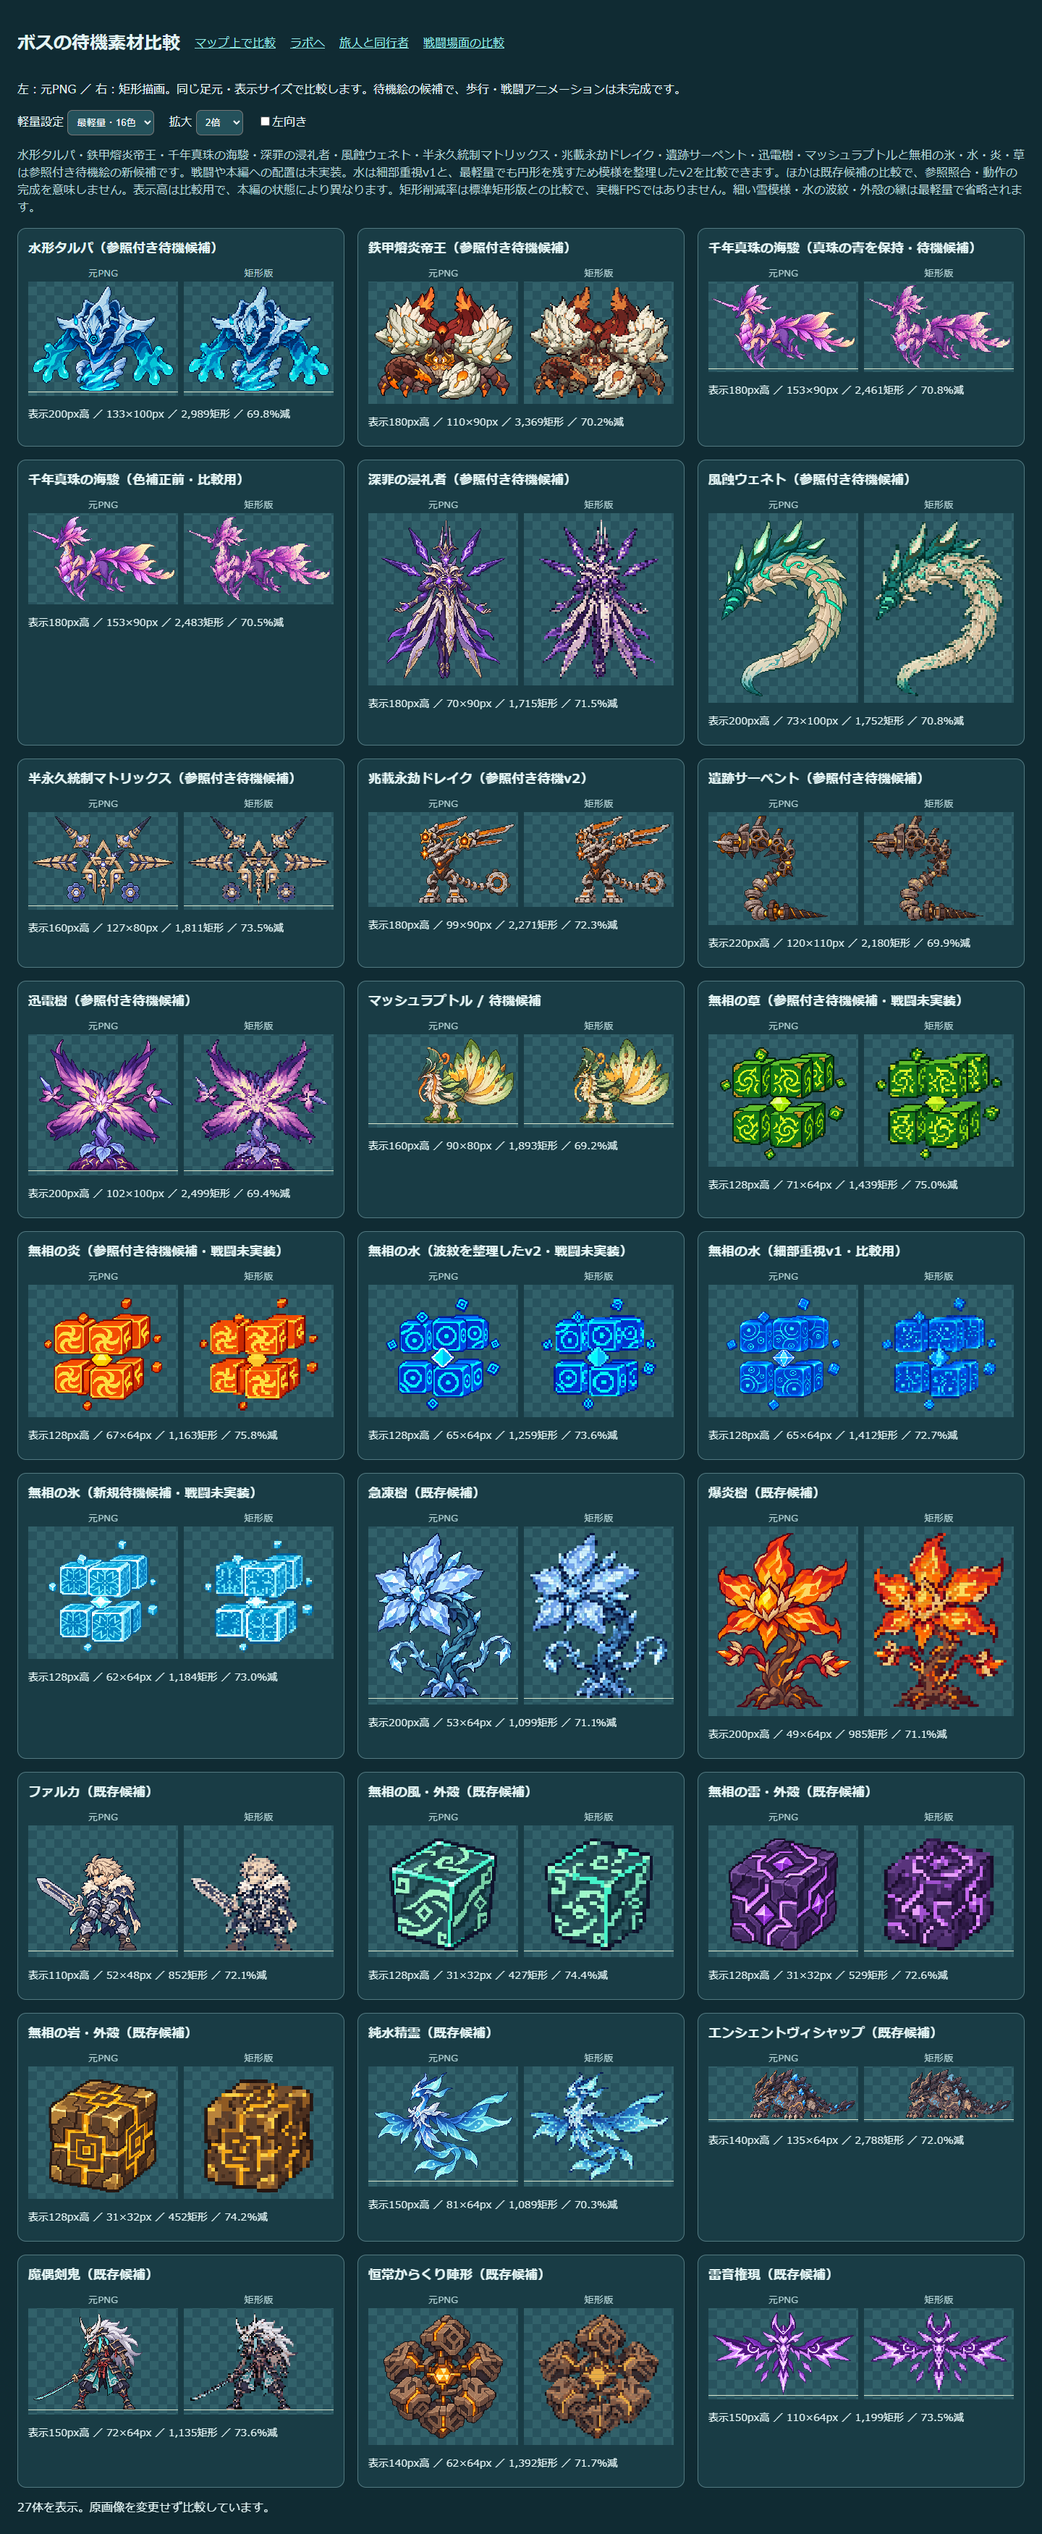
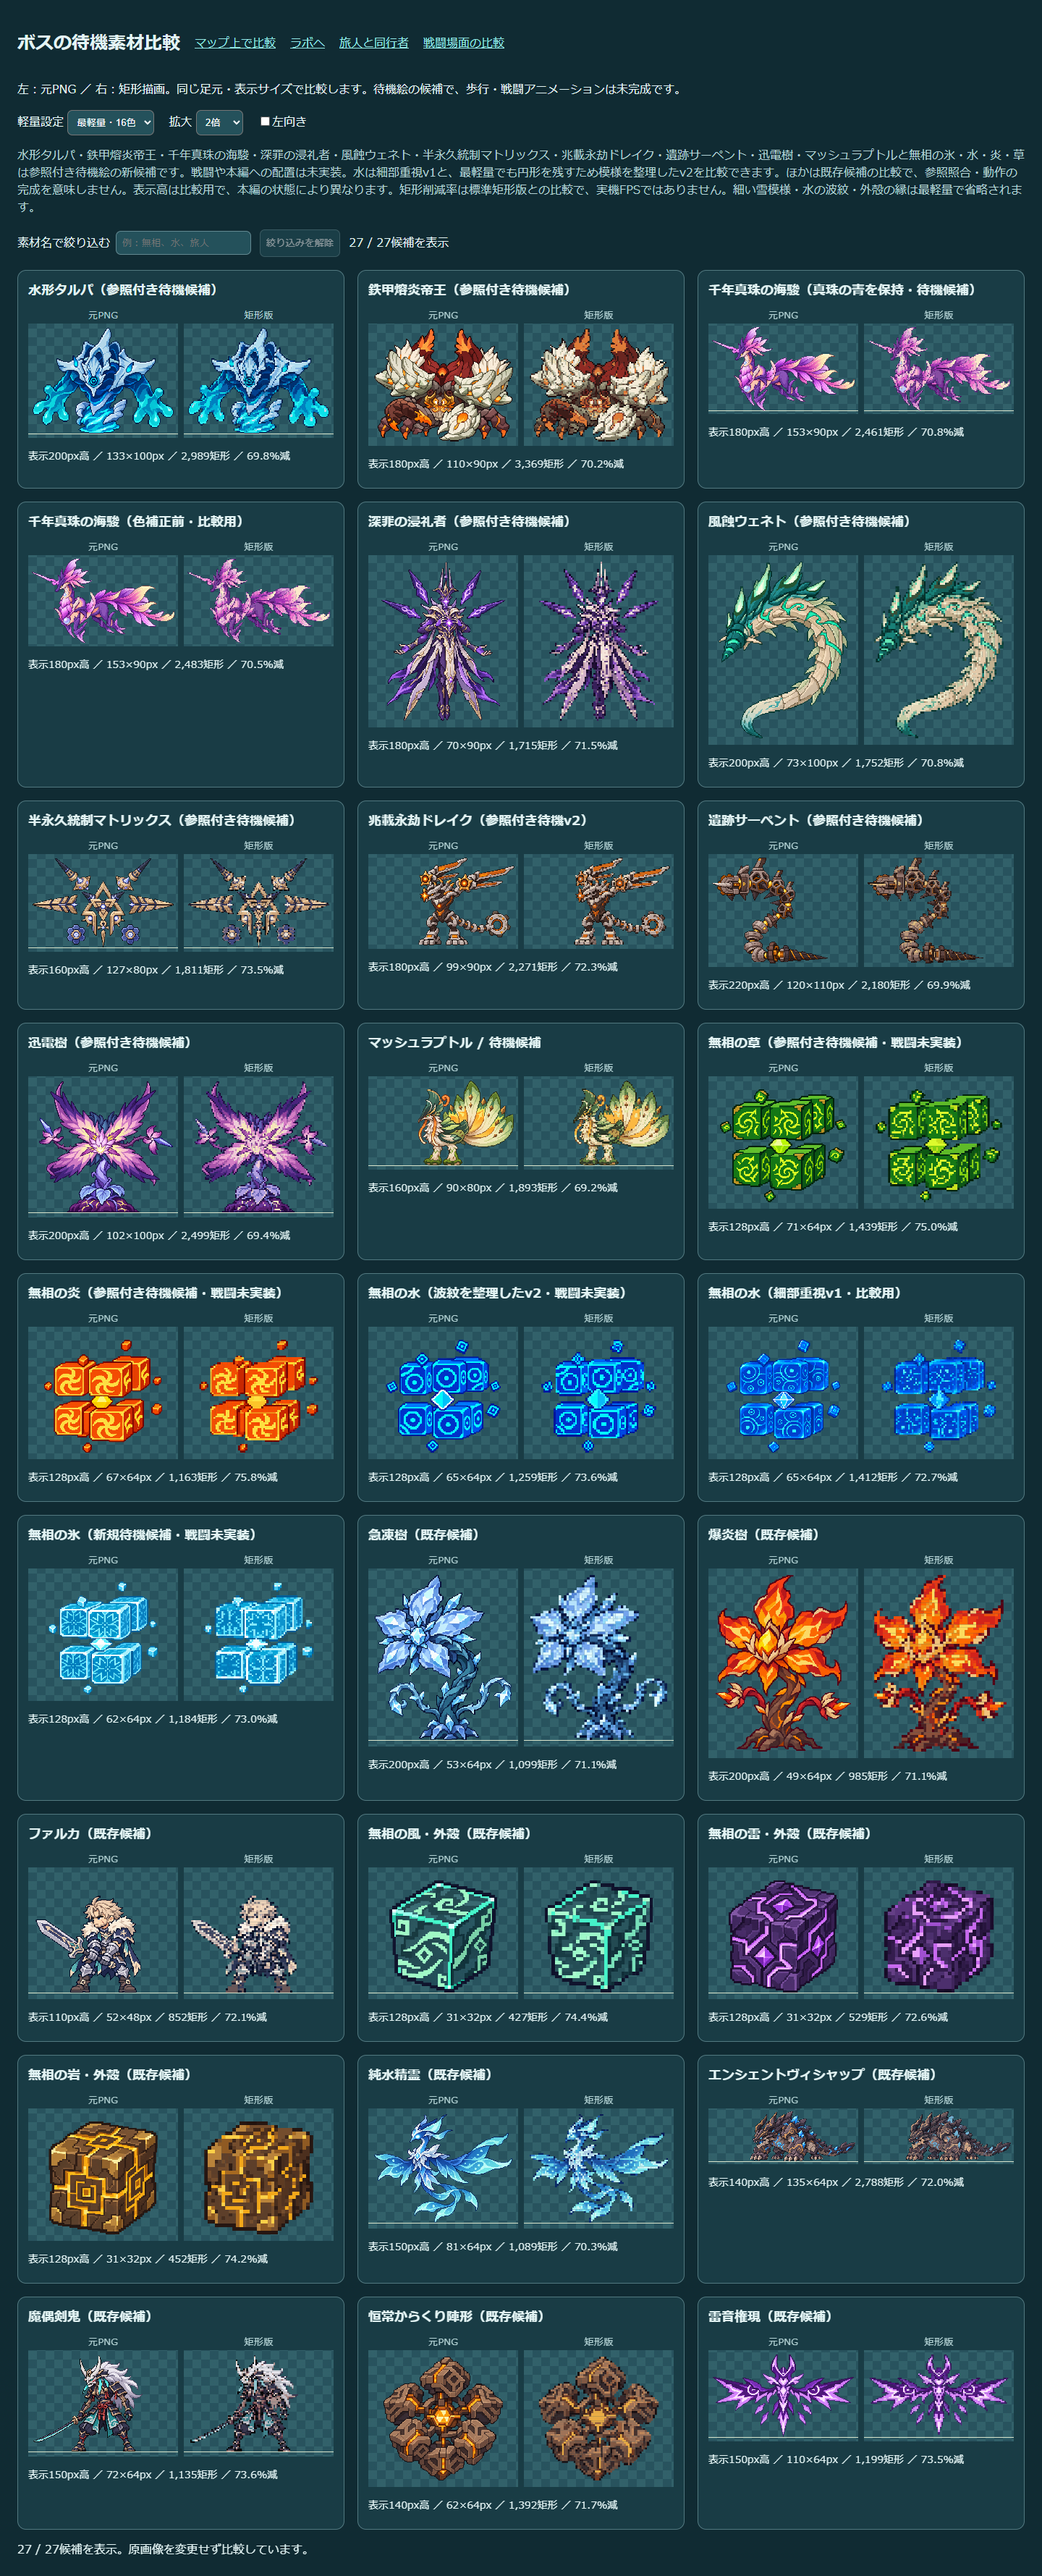
Filter art comparison galleries by name and candidate ID

diff --git a/characters-art.js b/characters-art.js
@@ -1,6 +1,6 @@
 const $=id=>document.getElementById(id),assets=[];
 async function json(path){const r=await fetch(path);if(!r.ok)throw Error(path);return r.json()}
-async function add(id,name,data,h,w){const image=new Image();image.src='assets/'+data.source;await image.decode();const article=document.createElement('article');article.dataset.id=id;article.innerHTML=`<h2>${name}</h2><div class="pair"><div><small>元PNG</small><canvas width="340" height="300"></canvas></div><div><small>矩形版</small><canvas width="340" height="300"></canvas></div></div><div class="stats"></div>`;$('cards').append(article);assets.push({id,data,image,article,h,w:w||h*data.box[2]/data.box[3]})}
+async function add(id,name,data,h,w){const image=new Image();image.src='assets/'+data.source;await image.decode();const article=document.createElement('article');article.dataset.id=id;article.innerHTML=`<h2>${name}</h2><div class="pair"><div><small>元PNG</small><canvas width="340" height="300"></canvas></div><div><small>矩形版</small><canvas width="340" height="300"></canvas></div></div><div class="stats"></div>`;$('cards').append(article);assets.push({id,name,data,image,article,h,w:w||h*data.box[2]/data.box[3]})}
 let layouts={};
 const enemies=document.documentElement.dataset.gallery==='enemies';
 try{
@@ -20,13 +20,21 @@ try{
  }else{
  for(const item of (await json('content/character-art-gallery.json')).items)await add(item.id,item.name,await json('assets/'+item.file),item.height);
  }
- function render(){const profile=$('profile').value,zoom=Number($('zoom').value),flip=$('flip').checked;
-  for(const {id,data,image,article,h,w} of assets){const a=data.profiles[profile],hover=(layouts[id.replace('-reference','')]?.hover??0)*zoom,height=h*zoom,width=w*zoom,anchor=data.anchorX??.5;
+ const searchControls=document.createElement('div');searchControls.className='gallery-search';
+ const searchLabel=document.createElement('label');searchLabel.textContent='素材名で絞り込む ';
+ const search=document.createElement('input');search.type='search';search.id='assetSearch';search.placeholder='例：無相、水、旅人';searchLabel.append(search);
+ const clear=document.createElement('button');clear.type='button';clear.id='clearAssetSearch';clear.textContent='絞り込みを解除';
+ const result=document.createElement('p');result.id='searchResults';result.setAttribute('role','status');
+ searchControls.append(searchLabel,clear,result);$('cards').before(searchControls);
+ const normalize=s=>s.normalize('NFKC').toLocaleLowerCase('ja');
+ search.oninput=render;clear.onclick=()=>{search.value='';render();search.focus()};
+ function render(){const terms=normalize(search.value).trim().split(/\s+/u).filter(Boolean);let visible=0;const profile=$('profile').value,zoom=Number($('zoom').value),flip=$('flip').checked;
+  for(const {id,name,data,image,article,h,w} of assets){article.hidden=!terms.every(term=>normalize(name+' '+id).includes(term));if(article.hidden)continue;visible++;const a=data.profiles[profile],hover=(layouts[id.replace('-reference','')]?.hover??0)*zoom,height=h*zoom,width=w*zoom,anchor=data.anchorX??.5;
    for(const [i,canvas] of [...article.querySelectorAll('canvas')].entries()){canvas.width=Math.max(340,Math.ceil(width*2*Math.max(anchor,1-anchor)+30));canvas.height=Math.max(300,Math.ceil(height+hover+30));const ctx=canvas.getContext('2d');ctx.clearRect(0,0,canvas.width,canvas.height);ctx.imageSmoothingEnabled=false;ctx.save();ctx.translate(canvas.width/2,canvas.height-15-hover);if(flip)ctx.scale(-1,1);const x=-width*anchor,y=-height;
     if(i===0)ctx.drawImage(image,...data.box,x,y,width,height);else for(const r of a.runs){ctx.fillStyle=r[4];ctx.fillRect(x+r[0]*width/a.width,y+r[1]*height/a.height,r[2]*width/a.width+.05,r[3]*height/a.height+.05)}ctx.restore();ctx.fillStyle='#dae5cc';ctx.fillRect(0,canvas.height-15,canvas.width,1);
    }
    article.querySelector('.stats').textContent=`表示${h}px高 ／ ${a.width}×${a.height}px ／ ${a.runs.length.toLocaleString()}矩形 ／ ${(100*(1-a.runs.length/data.profiles.legacy.runs.length)).toFixed(1)}%減`;
-  }$('status').textContent=`${assets.length}体を表示。原画像を変更せず比較しています。`;window.charactersGallery={ready:true,count:assets.length,profile,zoom,flip,dimensions:assets.map(({id,h,w,data})=>({id,h,w,ratio:data.box[2]/data.box[3]}))};
+  }result.textContent=visible?`${visible} / ${assets.length}候補を表示`: '該当する素材がありません。名前を短くするか、絞り込みを解除してください。';clear.disabled=!search.value; $('status').textContent=`${visible} / ${assets.length}候補を表示。原画像を変更せず比較しています。`;window.charactersGallery={ready:true,count:assets.length,visibleCount:visible,query:search.value,profile,zoom,flip,dimensions:assets.map(({id,h,w,data})=>({id,h,w,ratio:data.box[2]/data.box[3]}))};
  }
  for(const id of ['profile','zoom','flip'])$(id).onchange=render;render();
 }catch(e){$('status').textContent='素材の読み込みに失敗しました: '+e.message;throw e}

diff --git a/enemies-art.html b/enemies-art.html
@@ -1,5 +1,5 @@
 <!doctype html><html lang="ja" data-gallery="enemies"><meta charset="utf-8"><meta name="viewport" content="width=device-width,initial-scale=1"><title>通常敵の素材比較</title>
-<style>body{margin:24px;background:#102b33;color:#e3f4f4;font:16px sans-serif}a{color:#94e8e5}header{display:flex;gap:20px;align-items:center;flex-wrap:wrap}h1{font-size:25px}select{padding:8px;background:#24515b;color:white;border-radius:7px}main{display:grid;grid-template-columns:repeat(auto-fit,minmax(min(100%,380px),1fr));gap:18px}article{padding:14px;border:1px solid #527980;border-radius:12px;background:#193c45}h2{font-size:18px;margin:0 0 8px}.pair{display:flex;gap:8px}.pair>div{width:50%;text-align:center}canvas{width:100%;image-rendering:pixelated;background:repeating-conic-gradient(#32616a 0 25%,#28535e 0 50%) 0/24px 24px}small,.note{color:#b4d3d5}.stats{margin:8px 0;font-size:14px}label{white-space:nowrap}</style>
+<style>body{margin:24px;background:#102b33;color:#e3f4f4;font:16px sans-serif}a{color:#94e8e5}header{display:flex;gap:20px;align-items:center;flex-wrap:wrap}h1{font-size:25px}select{padding:8px;background:#24515b;color:white;border-radius:7px}main{display:grid;grid-template-columns:repeat(auto-fit,minmax(min(100%,380px),1fr));gap:18px}article{padding:14px;border:1px solid #527980;border-radius:12px;background:#193c45}h2{font-size:18px;margin:0 0 8px}.pair{display:flex;gap:8px}.pair>div{width:50%;text-align:center}canvas{width:100%;image-rendering:pixelated;background:repeating-conic-gradient(#32616a 0 25%,#28535e 0 50%) 0/24px 24px}small,.note{color:#b4d3d5}.stats{margin:8px 0;font-size:14px}label{white-space:nowrap}.gallery-search{margin:18px 0;display:flex;gap:12px;align-items:center;flex-wrap:wrap}.gallery-search label{display:flex;gap:8px;align-items:center;flex-wrap:wrap;white-space:normal;max-width:100%}.gallery-search input{min-width:0;max-width:100%;box-sizing:border-box}.gallery-search input,.gallery-search button{padding:8px;border:1px solid #638991;border-radius:7px;background:#24515b;color:white}.gallery-search p{margin:0}.gallery-search button:disabled{opacity:.5}article[hidden]{display:none}</style>
 <header><a href="bosses-art.html">ボス素材</a><h1>通常敵の素材比較</h1><a href="map-art.html">マップ上で比較</a><a href="index.html">ラボへ</a><a href="characters-art.html">旅人と同行者</a><a href="compare.html">戦闘場面の比較</a></header>
 <p>左：元PNG ／ 右：矩形描画。同じ足元・表示サイズで比較します。待機絵の候補で、歩行・戦闘アニメーションは未完成です。</p>
 <header><label>軽量設定 <select id="profile"><option value="legacy">標準</option><option value="h48c32">中間・32色</option><option value="h32c16" selected>最軽量・16色</option></select></label><label>拡大 <select id="zoom"><option value="1">実寸</option><option value="2" selected>2倍</option><option value="3">3倍</option></select></label><label><input type="checkbox" id="flip">左向き</label></header>

diff --git a/bosses-art.html b/bosses-art.html
@@ -1,5 +1,5 @@
 <!doctype html><html lang="ja" data-gallery="bosses"><meta charset="utf-8"><meta name="viewport" content="width=device-width,initial-scale=1"><title>ボスの待機素材比較</title>
-<style>body{margin:24px;background:#102b33;color:#e3f4f4;font:16px sans-serif}a{color:#94e8e5}header{display:flex;gap:20px;align-items:center;flex-wrap:wrap}h1{font-size:25px}select{padding:8px;background:#24515b;color:white;border-radius:7px}main{display:grid;grid-template-columns:repeat(auto-fit,minmax(min(100%,380px),1fr));gap:18px}article{padding:14px;border:1px solid #527980;border-radius:12px;background:#193c45}h2{font-size:18px;margin:0 0 8px}.pair{display:flex;gap:8px}.pair>div{width:50%;text-align:center}canvas{width:100%;image-rendering:pixelated;background:repeating-conic-gradient(#32616a 0 25%,#28535e 0 50%) 0/24px 24px}small,.note{color:#b4d3d5}.stats{margin:8px 0;font-size:14px}label{white-space:nowrap}</style>
+<style>body{margin:24px;background:#102b33;color:#e3f4f4;font:16px sans-serif}a{color:#94e8e5}header{display:flex;gap:20px;align-items:center;flex-wrap:wrap}h1{font-size:25px}select{padding:8px;background:#24515b;color:white;border-radius:7px}main{display:grid;grid-template-columns:repeat(auto-fit,minmax(min(100%,380px),1fr));gap:18px}article{padding:14px;border:1px solid #527980;border-radius:12px;background:#193c45}h2{font-size:18px;margin:0 0 8px}.pair{display:flex;gap:8px}.pair>div{width:50%;text-align:center}canvas{width:100%;image-rendering:pixelated;background:repeating-conic-gradient(#32616a 0 25%,#28535e 0 50%) 0/24px 24px}small,.note{color:#b4d3d5}.stats{margin:8px 0;font-size:14px}label{white-space:nowrap}.gallery-search{margin:18px 0;display:flex;gap:12px;align-items:center;flex-wrap:wrap}.gallery-search label{display:flex;gap:8px;align-items:center;flex-wrap:wrap;white-space:normal;max-width:100%}.gallery-search input{min-width:0;max-width:100%;box-sizing:border-box}.gallery-search input,.gallery-search button{padding:8px;border:1px solid #638991;border-radius:7px;background:#24515b;color:white}.gallery-search p{margin:0}.gallery-search button:disabled{opacity:.5}article[hidden]{display:none}</style>
 <header><h1>ボスの待機素材比較</h1><a href="map-art.html">マップ上で比較</a><a href="index.html">ラボへ</a><a href="characters-art.html">旅人と同行者</a><a href="compare.html">戦闘場面の比較</a></header>
 <p>左：元PNG ／ 右：矩形描画。同じ足元・表示サイズで比較します。待機絵の候補で、歩行・戦闘アニメーションは未完成です。</p>
 <header><label>軽量設定 <select id="profile"><option value="legacy">標準</option><option value="h48c32">中間・32色</option><option value="h32c16" selected>最軽量・16色</option></select></label><label>拡大 <select id="zoom"><option value="1">実寸</option><option value="2" selected>2倍</option><option value="3">3倍</option></select></label><label><input type="checkbox" id="flip">左向き</label></header>

diff --git a/characters-art.html b/characters-art.html
@@ -1,5 +1,5 @@
 <!doctype html><html lang="ja"><meta charset="utf-8"><meta name="viewport" content="width=device-width,initial-scale=1"><title>旅人と同行者の素材比較</title>
-<style>body{margin:24px;background:#102b33;color:#e3f4f4;font:16px sans-serif}a{color:#94e8e5}header{display:flex;gap:20px;align-items:center;flex-wrap:wrap}h1{font-size:25px}select{padding:8px;background:#24515b;color:white;border-radius:7px}main{display:grid;grid-template-columns:repeat(auto-fit,minmax(min(100%,380px),1fr));gap:18px}article{padding:14px;border:1px solid #527980;border-radius:12px;background:#193c45}h2{font-size:18px;margin:0 0 8px}.pair{display:flex;gap:8px}.pair>div{width:50%;text-align:center}canvas{width:100%;image-rendering:pixelated;background:repeating-conic-gradient(#32616a 0 25%,#28535e 0 50%) 0/24px 24px}small,.note{color:#b4d3d5}.stats{margin:8px 0;font-size:14px}label{white-space:nowrap}</style>
+<style>body{margin:24px;background:#102b33;color:#e3f4f4;font:16px sans-serif}a{color:#94e8e5}header{display:flex;gap:20px;align-items:center;flex-wrap:wrap}h1{font-size:25px}select{padding:8px;background:#24515b;color:white;border-radius:7px}main{display:grid;grid-template-columns:repeat(auto-fit,minmax(min(100%,380px),1fr));gap:18px}article{padding:14px;border:1px solid #527980;border-radius:12px;background:#193c45}h2{font-size:18px;margin:0 0 8px}.pair{display:flex;gap:8px}.pair>div{width:50%;text-align:center}canvas{width:100%;image-rendering:pixelated;background:repeating-conic-gradient(#32616a 0 25%,#28535e 0 50%) 0/24px 24px}small,.note{color:#b4d3d5}.stats{margin:8px 0;font-size:14px}label{white-space:nowrap}.gallery-search{margin:18px 0;display:flex;gap:12px;align-items:center;flex-wrap:wrap}.gallery-search label{display:flex;gap:8px;align-items:center;flex-wrap:wrap;white-space:normal;max-width:100%}.gallery-search input{min-width:0;max-width:100%;box-sizing:border-box}.gallery-search input,.gallery-search button{padding:8px;border:1px solid #638991;border-radius:7px;background:#24515b;color:white}.gallery-search p{margin:0}.gallery-search button:disabled{opacity:.5}article[hidden]{display:none}</style>
 <header><a href="bosses-art.html">ボス素材</a><h1>旅人と同行者8人</h1><a href="index.html">ラボへ</a><a href="enemies-art.html">通常敵の素材</a><a href="compare.html">戦闘場面の比較</a></header>
 <p>左：元PNG ／ 右：矩形描画。同じ足元・表示サイズで比較します。待機絵の候補で、歩行・戦闘アニメーションは未完成です。</p>
 <header><label>軽量設定 <select id="profile"><option value="legacy">標準</option><option value="h48c32">中間・32色</option><option value="h32c16" selected>最軽量・16色</option></select></label><label>拡大 <select id="zoom"><option value="1">実寸</option><option value="2" selected>2倍</option><option value="3">3倍</option></select></label><label><input type="checkbox" id="flip">左向き</label></header>

diff --git a/CHAT_HANDOFF.md b/CHAT_HANDOFF.md
@@ -309,3 +309,6 @@ map-art.html追加: 本編61仮地点の足場/背景を選択し、元PNGと軽
 
 
 2026-11-17: 水形タルパの参照付き待機候補追加。HoYoWiki4571の顔アイコン/全身寄り描画/カード/同一描画/ゲーム内大小タルパを直接確認、1/4をbuiltin画像生成に使用。3D背面未確認。200/150/100px=9888/6597/2989矩形（69.77%減、FPSではない）。25ボス27候補の3設定3倍率左右/縦横比/画像切れ/390px、全27候補配置/反転/JSON読戻/undo検査通過。PNGと軽量/仮背景を目視し冠・肩殻・手・下半身渦は残るが顔渦/溝が弱い。生成プレビューの光は外側5点でalpha0、実ブラウザの輪郭は透過表示。水は不透明な青系画素による表現で半透明/屈折ではない。参照より対称・ずんぐり、指先丸めの試作。技/動作/小型/本編配置未実装。根拠 evidence/tulpa-reference-audit.json, evidence/tulpa-comparison.png。
+
+
+2026-11-17: ボス/主人公味方/通常敵の素材比較に名前・ID検索を追加。NFKC正規化と小文字化、空白区切りAND検索、表示件数、該当なし案内、解除時の入力フォーカスに対応。千年真珠2候補・旅人1・水スライム2を絞込し、色数/倍率/左右切替で検索維持、解除後の設定維持、全角SEAHORSE v1、HTML文字列を実行しないこと、390px表示を検証。ボス全27候補の既存表示検査も通過。非表示カードの再描画を省き、再表示時に最新設定で描く。初回素材ロードは全件のまま。根拠 evidence/art-search-test.json, evidence/bosses-art-search.png。
